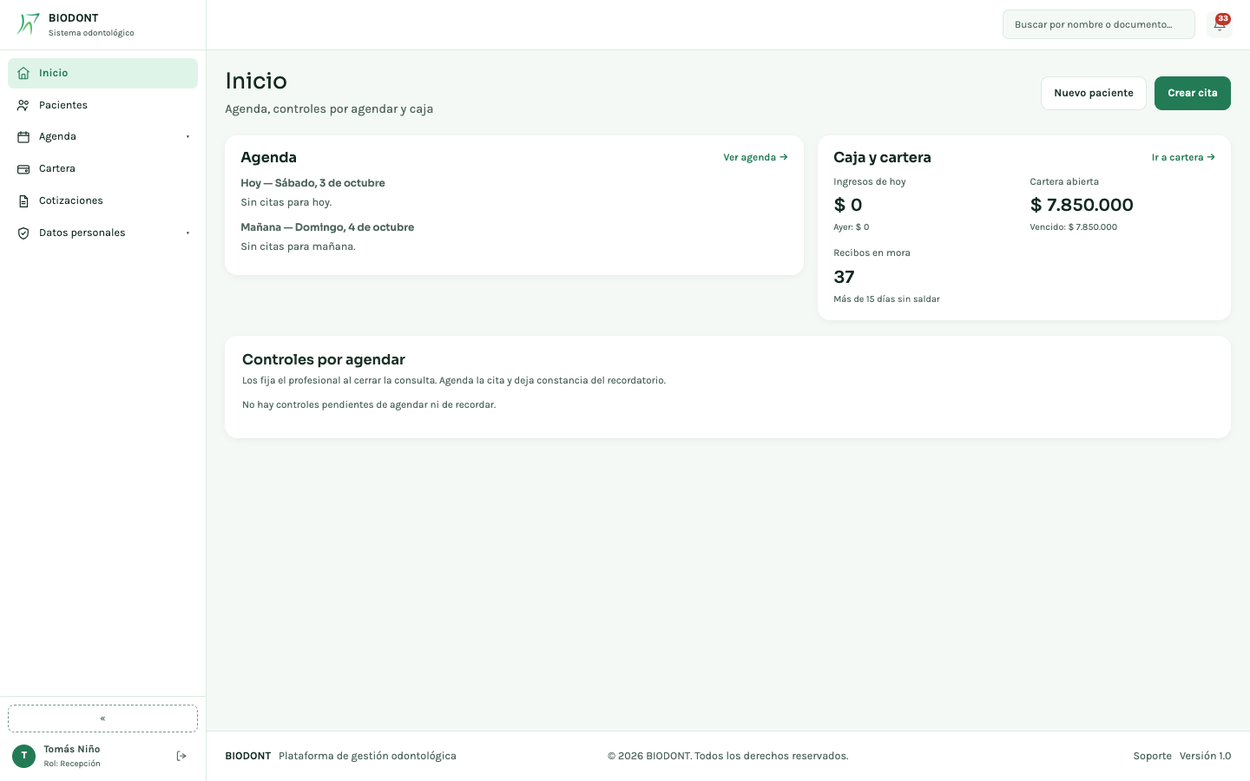
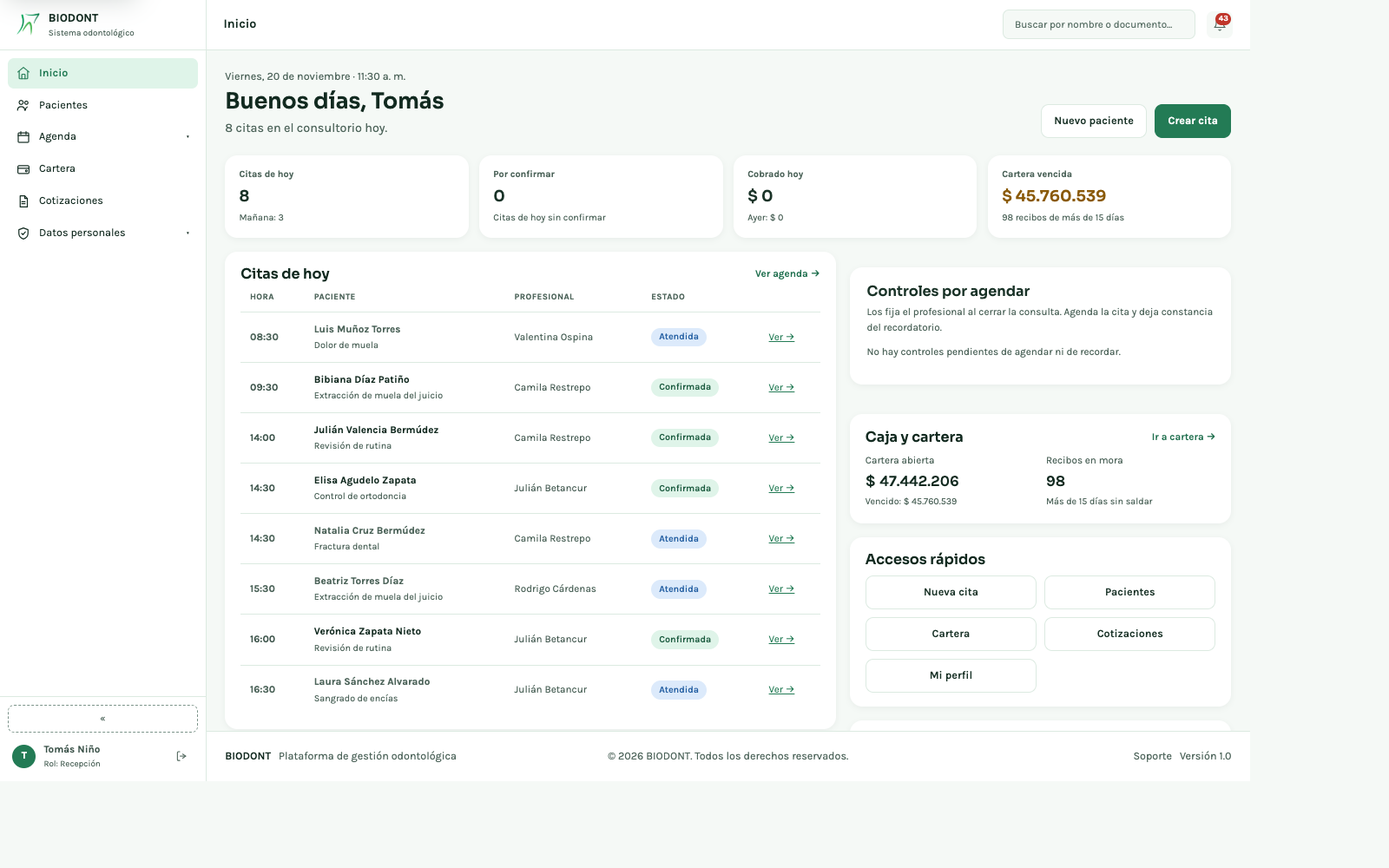
Manual: publicado desde el workspace (2026-11-20)

diff --git a/Manual-Biodont.html b/Manual-Biodont.html
@@ -156,6 +156,7 @@ table.constancia td{height:42px}
   <a href="#derechos">Atender una solicitud sobre datos personales</a>
   <a href="#incidentes">Registrar un incidente de seguridad</a>
   <a href="#respaldo">Respaldar la información</a>
+  <a href="#rips">El RIPS</a>
   <a href="#cierre">Si el consultorio cierra</a>
 
   <div class="grupo">Parte 2 · Referencia</div>
@@ -173,8 +174,8 @@ table.constancia td{height:42px}
 
 <h1>Manual de Biodont</h1>
 <p class="sub">Sistema de gestión para consultorio odontológico · Versión 1.0</p>
-<p class="sub" id="build-manual">Describe Biodont con el servidor <code>b1a9401</code> y las pantallas <code>705308c</code> (versión de la pantalla <code>main-DRW3YPMH</code>) · revisado el 2026-11-17.</p>
-<!-- Detalle técnico: servidor (backend) b1a9401, pantallas (front odontograma) 705308c, bundle main-DRW3YPMH; validado el 2026-11-17. Si la versión de su pantalla es otra, este manual puede no coincidir. -->
+<p class="sub" id="build-manual">Describe Biodont con el servidor <code>638f10a</code> y las pantallas <code>8c1311b</code> (versión de la pantalla <code>main-CBP3PXPW</code>) · revisado el 2026-11-20.</p>
+<!-- Detalle técnico: servidor (backend) 638f10a, pantallas (front odontograma) 8c1311b, bundle main-CBP3PXPW; validado el 2026-11-20. Si la versión de su pantalla es otra, este manual puede no coincidir. -->
 
 <div class="caja nota">
   <span class="et">Cómo está organizado</span>
@@ -342,6 +343,8 @@ y después el sistema lo lleva a Mi perfil para que vea cuántos le quedan.</p>
   la norma</b>: si debe reportarlo, cuándo y cómo, lo dice su asesor. Mientras no llegue ese concepto, en el servidor
   web <b>no se cargan las llaves del Ministerio ni se prueba la conexión</b>: la pantalla de llaves lo avisa y no
   ofrece hacerlo.</li>
+  <li><b>Decida si genera el RIPS.</b> El reporte de servicios al Ministerio también viene <b>apagado</b>. Se enciende y se configura en
+  <b class="btn">Administración</b> → <b>RIPS</b>: ver <a href="#rips">El RIPS</a>. Encendido, firmar una atención pide el diagnóstico principal.</li>
 </ol>
 
 <figure>
@@ -426,6 +429,14 @@ ven los demás.</p>
   <li>Pulse la opción que quiera. <b>Se aplica al instante</b> y se guarda sola: no hay botón
     de guardar.</li>
 </ol>
+<p>Si trabaja con el <b>teclado</b> (sin ratón, o con un lector de pantalla), la primera pulsación de <b>Tab</b> en cualquier pantalla
+muestra el enlace <b>«Saltar al contenido»</b>, que lleva directo al título de la pantalla sin recorrer el menú. Al cambiar de pantalla,
+el teclado queda también en su título.</p>
+<p>Con el teclado: en la <b>agenda</b> (vistas Mes y Semana) el calendario es una sola parada de <b>Tab</b>; las <b>flechas</b> cambian de día, <b>Inicio</b>
+y <b>Fin</b> van al primero y al último de la semana, <b>RePág</b> y <b>AvPág</b> cambian de mes (de semana, en la vista Semana), <b>Enter</b>
+(o <b>F2</b>) entra al día (sus citas y el «+») y <b>Escape</b> vuelve al calendario. En la <b>atención</b>, <b>Ctrl+S</b> (⌘S en Mac) guarda
+los cambios. En el <b>buscador de pacientes</b> de arriba, <b>Enter</b> abre la atención del paciente elegido (o lo primero que su rol pueda ver) y
+<b>Alt+Enter</b> muestra todas sus opciones.</p>
 
 <figure>
   <img src="capturas/24-ver-mejor.png" alt="Los tres ajustes de apariencia y tamaño en Mi perfil">
@@ -916,6 +927,15 @@ alteró.</p>
   falta y no firma.</p>
 </div>
 
+<div class="caja aviso" id="rips-firma">
+  <span class="et">Con el RIPS encendido, firmar pide el diagnóstico principal</span>
+  <p>Si el consultorio genera el RIPS (ver <a href="#rips">El RIPS</a>), la atención se firma con un <b>diagnóstico principal</b> que tenga
+  su código CIE-10 del catálogo, y sin diagnósticos relacionados repetidos ni iguales al principal. Si falta, al firmar sale
+  <b>«No se firmó: el RIPS está encendido en este consultorio»</b> con lo que falta (por ejemplo, «Diagnóstico principal con código CIE-10
+  del catálogo») y «Corrígelo en «Diagnóstico» y vuelve a firmar. Tu PIN no se usó.» Los procedimientos de la atención toman ese mismo
+  diagnóstico. Con el RIPS apagado, el diagnóstico sigue siendo opcional, y lo ya firmado antes no se cambia.</p>
+</div>
+
 <figure>
   <img src="capturas/23-firmar-pin.png" alt="Diálogo de firma con el resumen, la casilla de revisión y el PIN">
   <figcaption>El botón no se activa hasta marcar la casilla: al firmar se hace responsable del
@@ -937,12 +957,16 @@ alteró.</p>
     <tr><td><b class="btn">Agregar corrección</b></td><td>Añade una <b>adenda</b>, en la pestaña <b>Constancias y correcciones</b>. Lo firmado no se toca: la corrección se suma después, fechada y firmada, como manda la norma para un documento clínico.</td></tr>
     <tr><td><b class="btn">Imprimir (PDF)</b></td><td>Descarga el impreso de la atención con todo lo registrado, sus firmas y su huella. Solo lo obtiene quien puede ver todo su contenido: a un rol que no ve alguna parte (el auxiliar sin actuaciones habilitadas, por ejemplo) el botón aparece desactivado y, al pasar el cursor, dice por qué. Si hay cambios sin guardar, guarde antes: el impreso es lo guardado.</td></tr>
     <tr><td><b class="btn">Comprobar integridad</b></td><td>Verifica que el contenido firmado no ha sido alterado. Si algo cambió por fuera del sistema, lo dice.</td></tr>
-    <tr><td><b class="btn">Anular</b></td><td>Deja la atención sin efecto <b>dejando constancia</b> de quién la anuló y por qué. No la borra.</td></tr>
+    <tr><td><b class="btn">Anular</b></td><td>Deja la atención sin efecto <b>dejando constancia</b> de quién la anuló y por qué. No la borra. <b>Tampoco anula sus evoluciones</b>: antes de confirmar, la ventana dice cuántas siguen vigentes y en cuántos tratamientos, y al terminar lo repite.</td></tr>
   </tbody>
 </table>
 
 <p>Las atenciones anuladas no salen en la lista; para verlas, marque <b>Ver anuladas</b>. Una anulada se abre <b>solo para leer</b>, con su
 fecha y su motivo de anulación, y se puede imprimir como constancia (el impreso lo obtiene quien puede ver la atención entera).</p>
+
+<p>Si la atención anulada tenía evoluciones que siguen vigentes, aparecen en <b>Evoluciones que siguen vigentes</b>: siguen contando en sus
+tratamientos. Si eran de otro paciente, anúlelas ahí con <b class="btn">Anular</b> y un motivo; lo puede hacer quien registró la evolución o el
+responsable clínico (el odontólogo que Administración marcó como tal), aunque la atención estuviera firmada. La evolución no se borra: queda con su motivo y deja de contar en su tratamiento.</p>
 
 <div class="caja alto">
   <span class="et">Un error después de firmar se corrige con una adenda</span>
@@ -1881,8 +1905,11 @@ cierre, solo Administración y Odontología corrigen la caja, anulando un cobro.
   <li><b>Con más efectivo del que entró:</b> si lo que salió en efectivo en el día (egresos y devoluciones) supera lo que entró en efectivo, el sistema no habla de «sobrante»: dice
   <i>«Salió más efectivo del que entró»</i> con la cifra, y la diferencia con lo contado como «Diferencia con lo contado».</li>
   <li><b>Corregido después del cierre:</b> si tras cerrar se anula algo, la caja muestra el aviso <i>«Corregido después del cierre»</i> con lo que
-  cambió —el efectivo esperado y, <b>en cualquier medio de pago</b> (Nequi, tarjeta, transferencia…), el total que había al cerrar y el de ahora—. El
-  cierre grabado no cambia.</li>
+  cambió —el efectivo esperado y, <b>en cualquier medio de pago</b> (Nequi, tarjeta, transferencia…), el total que había al cerrar y el de ahora—. Lo
+  mismo con los <b>egresos</b>: se puede registrar un egreso con la fecha de un día ya cerrado, y si después de cerrar se registra, se anula o se
+  cambia uno, el aviso lo dice como <i>«Egresos por Nequi: $40.000 → $65.000»</i> (o <i>«Egresos en efectivo: …»</i>). El cierre grabado no cambia.
+  Al registrar o editar un egreso con la fecha de un día cerrado, la ventana lo avisa antes de guardar: <i>«La caja de ese día ya está cerrada: el
+  egreso se guarda igual y la caja lo mostrará como corregido después del cierre»</i>.</li>
   <li><b>Días sin cerrar:</b> en Cartera aparece el aviso <i>«Hay N días con movimientos sin cerrar»</i> con el más antiguo, en forma de enlace que abre
   la caja de ese día. Cuenta los días anteriores a hoy que tuvieron cobros, devoluciones o egresos y no se cerraron, <b>desde el día siguiente al primer
   cierre de caja</b> del consultorio: si nunca se ha cerrado una caja, no avisa. Solo avisa: no impide nada ni sale en la campana.</li>
@@ -2291,7 +2318,9 @@ pierde la historia clínica de todos los pacientes.</p>
 <p>Para <b>restaurar</b>, en la misma pantalla: <b class="btn">Seleccionar backup (.zip, .cifrado o .db)</b>. Si el archivo es un
 backup cifrado (<b>.cifrado</b>), aparece <b>Frase del backup cifrado</b>: escriba la frase con la que se descargó. Después marque
 <b>Entiendo que se reemplazan todos los datos actuales por los del respaldo</b> y pulse
-<b class="btn">Restaurar base de datos</b>. Todo lo que se registró después de ese respaldo se pierde.</p>
+<b class="btn">Restaurar base de datos</b>. Todo lo que se registró después de ese respaldo se pierde, <b>también las solicitudes de derechos sobre datos personales</b>
+  que llegaron después: tras restaurar, revise el canal por donde llegan (correo, teléfono, mostrador o la página pública) y vuelva a radicarlas, porque
+  su plazo legal sigue corriendo.</p>
 <p>Durante una <b>restauración</b> el sistema entero deja de responder a propósito, y vuelve
 cuando termina. No la haga con pacientes esperando. Al terminar, la pantalla se recarga sola a los tres segundos y,
 ya recargada, deja un aviso verde con lo que se restauró.</p>
@@ -2299,6 +2328,154 @@ ya recargada, deja un aviso verde con lo que se restauró.</p>
 no se restaura nada y la información actual queda como estaba. Un respaldo de una versión anterior se
 pone al día solo, y el mensaje lo dice. La información que había antes de restaurar queda guardada en
 el servidor, por si hiciera falta recuperarla.</p>
+
+<hr>
+
+<h2 id="rips">El RIPS (Administración → RIPS)</h2>
+<p class="quien"><span class="rol r-adm">Administración</span> — nadie más</p>
+
+<p>El <b>RIPS</b> (Registro Individual de Prestación de Servicios de Salud) es el reporte que el Ministerio de Salud pide de
+los servicios que presta el consultorio: cada consulta y cada procedimiento, con el paciente, la fecha, el diagnóstico y el
+valor. Biodont <b>prepara</b> ese reporte con lo que ya está registrado, lo <b>comprueba</b> con las reglas que se pueden revisar
+sin el Ministerio y <b>genera el archivo</b>. <b>No lo envía</b>: el archivo se carga en la aplicación de validación del Ministerio, y lo
+que responda el Ministerio se anota después en Biodont.</p>
+
+<div class="caja alto">
+  <span class="et">Un archivo listo en Biodont no es un RIPS aprobado</span>
+  <p>Lo aprueba el Ministerio cuando devuelve el <b>CUV</b> (código único de validación). Que Biodont diga «Listo localmente» solo
+  significa que el archivo cumple las reglas que Biodont puede comprobar por su cuenta: no dice que el Ministerio lo vaya a aceptar,
+  ni que la factura esté bien emitida, ni que el pagador lo reciba.</p>
+</div>
+
+<h3 id="rips-configurar">Encenderlo y configurarlo</h3>
+<p>El RIPS <b>viene apagado</b>. Apagado, nada cambia en el consultorio y no se puede preparar ningún reporte.</p>
+<ol class="pasos">
+  <li>Entre a <b class="btn">Administración</b> → <b>RIPS</b>, al bloque <b>Configuración del consultorio</b>.</li>
+  <li>En <b>Generar el RIPS</b> elija <b>Sí</b>.</li>
+  <li>Elija la <b>Modalidad</b>, una sola por consultorio:
+    <ul>
+      <li><b>Sin factura electrónica</b>: para quien atiende particulares y no está obligado a facturar electrónicamente. Se reporta lo
+      que pagó el paciente, ya con el descuento.</li>
+      <li><b>Con factura electrónica</b>: para quien factura electrónicamente o le factura a una EPS u otro pagador; el reporte va junto
+      con la factura. <b>La unión con la factura todavía no está construida en Biodont.</b></li>
+    </ul>
+    La decide quien administra el consultorio, según su situación ante la facturación electrónica. Las dos no se combinan, y sin elegir
+    una no se genera ningún reporte.</li>
+  <li>En <b>Servicio habilitado (REPS)</b> elija el servicio con el que el consultorio está habilitado (por ejemplo, <b>334 · ODONTOLOGIA
+  GENERAL</b>). Los demás campos traen el valor que sirve a casi todos los consultorios (consulta externa, en el consultorio, demanda
+  espontánea, particular, sin cobros adicionales); cada uno explica debajo para qué es.</li>
+  <li>Pulse <b class="btn">Guardar</b>.</li>
+</ol>
+<p>El <b>NIT</b> y el <b>código de habilitación</b> del consultorio no se escriben aquí: se registran una sola vez en
+<b>Administración · RDA</b>, y el RIPS los toma de allí. Si falta algo del consultorio, la pantalla lo enumera con el sitio donde se
+corrige.</p>
+<figure>
+  <img src="capturas/76-rips-configuracion.png" alt="Configuración del RIPS: Generar el RIPS en Sí, la modalidad sin factura electrónica elegida y los demás campos con su explicación">
+  <figcaption>Administración → <b>RIPS</b>, la configuración. Encenderlo cambia también la firma de la atención (ver
+  <a href="#rips-firma">abajo</a>).</figcaption>
+</figure>
+
+<h3 id="rips-preparar">Preparar el reporte de un periodo</h3>
+<p>Arriba del bloque hay un <b>recordatorio</b>: dice si el mes anterior ya tiene reporte. El plazo que menciona (los cinco primeros días
+del mes) es <b>solo un recordatorio</b>: Biodont no lo controla, no bloquea nada al pasarse y no garantiza que el consultorio cumpla.</p>
+<ol class="pasos">
+  <li>Elija el periodo en <b>Desde</b> y <b>Hasta</b> (de un día a un mes), o pulse <b class="btn">Mes anterior</b>.</li>
+  <li>Pulse <b class="btn">Preparar</b>. Preparar <b>no guarda nada</b>: muestra qué iría en el reporte y qué falta.</li>
+</ol>
+<p>La preparación se lee en cuatro partes:</p>
+<ul>
+  <li><b>Lo que va en el reporte</b>: las consultas de las atenciones firmadas o cerradas del periodo y los procedimientos registrados en
+  sus evoluciones, agrupados por paciente, cada uno con su valor y de dónde sale.</li>
+  <li><b>Falta información</b>: lo que el Ministerio exige y no está registrado (por ejemplo, el sexo o el tipo de documento en la ficha
+  de un paciente). Cada faltante dice <b>dónde se corrige</b>. Mientras falte algo, el reporte no se genera: <b>nada se rellena por
+  defecto</b>.</li>
+  <li><b>Queda fuera del reporte</b>: lo que no se reporta, <b>cada uno con su motivo</b> (una atención sin firmar, una atención firmada sin
+  diagnóstico principal, una evolución sin procedimiento…). Lo anterior que no cumple no se reescribe: queda fuera.</li>
+  <li><b>Avisos</b>: datos que Biodont informa por su cuenta porque no los registra (por ejemplo, el país de origen se toma de la
+  nacionalidad). No impiden generar.</li>
+</ul>
+<figure>
+  <img src="capturas/77-rips-preparar.png" alt="Preparación de un periodo con un faltante en la ficha de un paciente, siete servicios sin valor y la tabla de lo que va en el reporte">
+  <figcaption>Un periodo preparado: arriba, lo que falta y dónde se corrige; abajo, cada servicio con su valor o con el motivo por el
+  que no hay valor sugerido.</figcaption>
+</figure>
+<figure>
+  <img src="capturas/78-rips-fuera-y-avisos.png" alt="Lista de lo que queda fuera del reporte con su motivo, los avisos y el botón Generar el reporte desactivado">
+  <figcaption>Lo que queda fuera, con su motivo, y los avisos. Mientras falte algo, <b>Generar el reporte</b> no se activa y la
+  pantalla dice por qué.</figcaption>
+</figure>
+
+<h3 id="rips-valor">El valor de cada servicio</h3>
+<p>Biodont <b>sugiere</b> el valor solo cuando sale de lo pagado sin ninguna duda (por ejemplo, la consulta de una cita pagada del todo).
+En cualquier otro caso el servicio queda <b>Por asignar</b>, con el motivo («La cita tiene saldo pendiente…», «La evolución no está
+ligada a un tratamiento»…), porque Biodont no reparte ni supone pagos.</p>
+<ol class="pasos">
+  <li>En la fila del servicio pulse <b class="btn">Asignar valor</b> (o <b class="btn">Cambiar valor</b>, si ya tenía uno).</li>
+  <li>Escriba el <b>Valor en pesos</b>: lo que pagó el paciente por ese servicio, en pesos enteros, sin puntos.</li>
+  <li>Escriba el <b>Motivo</b>. Queda guardado con su nombre y la fecha.</li>
+  <li>Pulse <b class="btn">Guardar valor</b>.</li>
+</ol>
+<p>Un valor de <b>0</b> no entra por descuido: al escribirlo aparece la casilla <b>Confirmo que el valor de este servicio es 0.</b>, y sin
+marcarla no se guarda.</p>
+<figure>
+  <img src="capturas/79-rips-asignar-valor.png" alt="Ventana Asignar valor con el motivo por el que no hay valor sugerido, el valor 0, la casilla de confirmación y el motivo">
+  <figcaption>La ventana del valor. Arriba dice por qué no hay valor sugerido; con 0 pide confirmarlo.</figcaption>
+</figure>
+
+<h3 id="rips-generar">Generar el reporte</h3>
+<p>Cuando no queda nada por asignar ni ningún faltante, pulse <b class="btn">Generar el reporte</b>. El reporte queda guardado con su
+<b>huella</b> y el <b>sello</b> de la instalación, que permiten comprobar después que el archivo no cambió. Un reporte generado <b>no se
+edita</b>: si hay que corregirlo, se reemplaza (ver abajo). Una misma atención no puede estar en dos reportes vigentes.</p>
+
+<h3 id="rips-estados">Los reportes y sus estados</h3>
+<p>En <b>Reportes generados</b> está la lista, con el estado de cada uno. Cada estado dice qué afirma y quién lo afirma:</p>
+<table>
+  <thead><tr><th>Estado</th><th>Qué quiere decir</th><th>Quién lo da</th></tr></thead>
+  <tbody>
+    <tr><td><b>Listo localmente</b></td><td>El archivo cumple las reglas que Biodont comprueba sin el Ministerio. Todavía no se ha enviado.</td><td>Biodont</td></tr>
+    <tr><td><b>Transmitido</b></td><td>Alguien registró que lo envió al Ministerio o lo cargó en su aplicación. Falta anotar lo que respondió.</td><td>El consultorio, al registrarlo</td></tr>
+    <tr><td><b>Validado con CUV</b></td><td>Registrado como validado por el Ministerio: alguien escribió en Biodont el CUV que devolvió. Biodont no habla con el Ministerio.</td><td>El consultorio, al registrar lo que respondió el Ministerio</td></tr>
+    <tr><td><b>Rechazado</b></td><td>El Ministerio lo rechazó, con los motivos que devolvió. Se corrige generando un reemplazo.</td><td>El Ministerio</td></tr>
+    <tr><td><b>Reemplazado</b></td><td>Otro reporte del mismo periodo lo corrigió. Se conserva como constancia y ya no cuenta.</td><td>Biodont</td></tr>
+  </tbody>
+</table>
+<p>Hay un sexto paso que <b>no</b> está en Biodont: que el pagador (por ejemplo, una EPS) reciba el reporte con la factura. Lo da el
+pagador, y esta pantalla no lo registra.</p>
+<figure>
+  <img src="capturas/80-rips-reportes.png" alt="Lista de reportes generados con la explicación de cada estado y cinco reportes: transmitido, rechazado, validado con CUV, reemplazado y listo localmente">
+  <figcaption>La lista de reportes, con lo que significa cada estado encima.</figcaption>
+</figure>
+
+<h3 id="rips-ministerio">Del archivo al Ministerio, y de vuelta</h3>
+<ol class="pasos">
+  <li>En la fila del reporte pulse <b class="btn">Ver</b> y luego <b class="btn">Descargar el archivo JSON</b>.</li>
+  <li>Cargue ese archivo en la aplicación de validación del Ministerio de Salud, con el usuario del consultorio. Esa parte se hace fuera de
+  Biodont.</li>
+  <li>De vuelta en el reporte, pulse <b class="btn">Registrar transmisión</b>. La pantalla pregunta si ya lo envió: la transmisión se
+  registra <b>una sola vez</b>. Confirme con <b class="btn">Sí, registrar la transmisión</b>.</li>
+  <li>Cuando el Ministerio responda, pulse <b class="btn">Registrar el resultado</b>, elija <b>Validado, con CUV</b> o <b>Rechazado, con
+  motivos</b>, escriba el <b>CUV</b> si fue validado, pegue en <b>Respuesta del Ministerio</b> el contenido del archivo .txt o lo que
+  devolvió su aplicación (se guarda tal cual) y pulse <b class="btn">Registrar</b>.</li>
+</ol>
+<p>El detalle de cada reporte muestra el periodo, los servicios, cuándo se generó, se transmitió y se registró el resultado, el CUV, la
+<b>huella del archivo</b> y si el archivo guardado sigue <b>íntegro</b>. Si dijera «Alterado», no lo envíe y avise al proveedor. Si una
+atención del reporte se corrigió después con una adenda, el detalle lo avisa para que revise si hay que reemplazarlo.</p>
+<figure>
+  <img src="capturas/81-rips-detalle.png" alt="Detalle de un reporte validado con su CUV, la huella del archivo, la integridad y el botón para descargar el archivo">
+  <figcaption>Un reporte validado: el CUV que devolvió el Ministerio, la huella y la integridad. Un reporte validado ya no ofrece
+  <b>Reemplazar</b>.</figcaption>
+</figure>
+
+<h3 id="rips-reemplazar">Corregir un reporte: reemplazarlo</h3>
+<p>Un reporte que todavía no está validado (listo, transmitido o rechazado) se corrige reemplazándolo: corrija primero lo que haga falta
+(la ficha, la atención, un valor), abra el reporte, pulse <b class="btn">Reemplazar</b>, escriba el <b>Motivo del reemplazo</b> y pulse
+<b class="btn">Generar el reemplazo</b>. Se genera un reporte nuevo del mismo periodo con los datos de ahora; el anterior queda como
+«Reemplazado», se conserva y ya no cuenta. Los valores asignados a mano se mantienen.</p>
+<div class="caja aviso">
+  <span class="et">Un reporte validado no se reemplaza</span>
+  <p>Un RIPS que ya tiene CUV se corrige ante el Ministerio con una <b>nota de ajuste</b>, no con otro reporte. Las notas de ajuste
+  <b>todavía no están en Biodont</b>.</p>
+</div>
 
 <hr>
 
@@ -2425,27 +2602,40 @@ sistema: el de una atención y el del dinero.</p>
 <h3 id="v-inicio">Inicio</h3>
 <p class="quien">Entran: <span class="rol r-odo">Odontólogo</span> <span class="rol r-aux">Auxiliar</span> <span class="rol r-rec">Recepción</span> <span class="rol r-adm">Administración</span></p>
 <figure>
-  <img src="capturas/02-escritorio.png" alt="Pantalla de inicio con indicadores y agenda">
-  <figcaption>Lo primero que se ve al entrar (aquí, con perfil de Recepción).</figcaption>
+  <img src="capturas/02-escritorio.png" alt="Inicio de Recepción: saludo, cifras del día, tabla de citas de hoy, controles por agendar y caja y cartera">
+  <figcaption>El Inicio de Recepción: las cifras del día arriba y la tabla de citas de hoy.</figcaption>
 </figure>
-<p>Lo que muestra depende del rol: cada uno ve su jornada.</p>
+<p>Arriba, el saludo con el resumen del día («Tienes 3 citas hoy. La siguiente es a las 15:00.»). Debajo, una fila de
+<b>cifras del día</b> que se pueden pulsar para ir a su lista. Lo demás depende del rol: cada uno ve su jornada, y lo que su
+rol no recibe no aparece (no se muestra como cero).</p>
 <table>
   <thead><tr><th>Bloque</th><th>Qué muestra</th><th>Quién lo ve</th></tr></thead>
   <tbody>
-    <tr><td><b>Agenda</b></td><td>Las citas de hoy y de mañana, con su estado. El odontólogo puede
-    filtrar <b>Solo mis citas</b>.</td><td>Todos</td></tr>
-    <tr><td><b>Pendientes de firma</b></td><td>Documentos enviados al paciente que todavía no ha
-    firmado, y si el enlace venció.</td><td>Odontólogo</td></tr>
-    <tr><td><b>Atenciones sin cerrar</b></td><td>Sus atenciones abiertas, con <b>Continuar</b>.</td><td>Odontólogo</td></tr>
-    <tr><td><b>Caja y cartera</b> (en Administración, <b>Desempeño</b>)</td><td>Ingresos de hoy
-    (y de ayer), cartera abierta y vencida, recibos en mora; Administración ve además los
-    tratamientos activos.</td><td>Recepción, Administración</td></tr>
+    <tr><td><b>Cifras del día</b></td><td>Odontólogo: sus citas de hoy (y cuántas por confirmar), atenciones sin cerrar,
+    consentimientos pendientes y citas de mañana. Recepción y Administración: citas de hoy, por confirmar, cobrado hoy (y ayer)
+    y cartera vencida (Administración, también los tratamientos activos). Auxiliar: citas de hoy y de mañana del consultorio. Las citas canceladas no se cuentan.</td><td>Todos</td></tr>
+    <tr><td><b>Siguiente paciente</b></td><td>La próxima cita de hoy: hora y cuánto falta, paciente, motivo y sus
+    <b>alergias</b>, con <b class="btn">Abrir atención</b>, <b class="btn">Odontograma</b> y <b class="btn">Ficha</b>. Si ya
+    no quedan citas, lo dice; el saludo de arriba avisa además de las anteriores que siguen sin atender.</td><td>Odontólogo</td></tr>
+    <tr><td><b>Agenda de hoy</b></td><td>Odontólogo y Auxiliar: una línea de tiempo con la hora actual marcada y los
+    <b>huecos libres</b> de 30 minutos o más («Libre 11:35 – 15:00 · Agendar aquí»); el odontólogo puede filtrar
+    <b>Solo mis citas</b>. Recepción y Administración: una tabla con hora, paciente, profesional y estado.</td><td>Todos</td></tr>
+    <tr><td><b>Lo que espera tu firma</b></td><td>Los documentos enviados al paciente que todavía no ha firmado (y si el
+    enlace venció) y sus atenciones sin cerrar, con la acción de cada una: <b>Abrir</b>, <b>Firmar</b>, <b>Cerrar</b> o
+    <b>Continuar</b>.</td><td>Odontólogo</td></tr>
+    <tr><td><b>Caja y cartera</b></td><td>Cartera abierta y vencida, recibos en mora y saldo a favor.</td><td>Recepción, Administración</td></tr>
     <tr><td><b>Controles por agendar</b></td><td>Los próximos controles que fijó el odontólogo y
     todavía no tienen cita ni recordatorio. Desde aquí se <b class="btn">Agendar</b> la cita, se
     envía el recordatorio y se marca como enviado. Muestra el nombre y el teléfono, <b>nunca</b>
     el contenido clínico.</td><td>Auxiliar, Recepción, Administración</td></tr>
+    <tr><td><b>Accesos rápidos</b> y <b>Mañana</b></td><td>Atajos a las pantallas que el rol puede abrir, y las citas de
+    mañana (Recepción y Administración ven la lista; el odontólogo, cuántas y a qué hora es la primera).</td><td>Todos</td></tr>
   </tbody>
 </table>
+<figure>
+  <img src="capturas/82-inicio-odontologa.png" alt="Inicio de una odontóloga: siguiente paciente con su alergia, agenda en línea de tiempo con huecos libres y lo que espera su firma">
+  <figcaption>El Inicio de la odontóloga: el siguiente paciente con su alergia y la agenda de hoy con los huecos libres.</figcaption>
+</figure>
 
 <h3 id="v-pacientes">Pacientes</h3>
 <p class="quien">Entran: <span class="rol r-odo">Odontólogo</span> <span class="rol r-aux">Auxiliar</span> <span class="rol r-rec">Recepción</span> <span class="rol r-adm">Administración</span></p>
@@ -2588,6 +2778,7 @@ incidentes) no deja asiento aquí.</p>
     <tr><td><b>Documentos legales</b></td><td>El nombre del consultorio, el texto de cada documento que firma el paciente o publica el consultorio, su <b>aprobación jurídica</b> y el encabezado de los documentos.</td></tr>
     <tr><td><b>Cierre del consultorio</b></td><td>Si el consultorio cierra: los avisos publicados, el plazo para que cada paciente reclame su historia y el cierre definitivo, que deja el sistema en solo lectura. Ver <a href="#cierre">Si el consultorio cierra</a>.</td></tr>
     <tr><td><b>RDA</b></td><td>Activar o no la generación del Resumen Digital de Atención, los datos del prestador y, con ella activa, la lista de atenciones firmadas para descargar su RDA.</td></tr>
+    <tr><td><b>RIPS</b></td><td>Encender el reporte de servicios al Ministerio, elegir la modalidad, preparar y generar el reporte de cada periodo y anotar lo que respondió el Ministerio. Ver <a href="#rips">El RIPS</a>.</td></tr>
   </tbody>
 </table>
 <h4>El historial de precios</h4>
@@ -2857,6 +3048,7 @@ abre en su celular o en la tablet que se le pasa, lee el documento y firma con e
     <tr><td>Tarifario</td><td>Solo leer</td><td>Solo leer</td><td>Solo leer</td><td><b>Crear, poner precios y ver su historial</b></td></tr>
     <tr><td>Usuarios, respaldo, textos</td><td>No</td><td>No</td><td>No</td><td>Sí</td></tr>
     <tr><td>RDA: activarlo y descargarlo</td><td>No</td><td>No</td><td>No</td><td>Sí</td></tr>
+    <tr><td>RIPS: configurarlo, generar el reporte y registrar el resultado</td><td>No</td><td>No</td><td>No</td><td>Sí</td></tr>
     <tr><td>Alertas clínicas del paciente</td><td>Sí</td><td>Sí</td><td>No</td><td>No</td></tr>
     <tr><td>Documentos que firma el paciente</td><td>Sí</td><td>Sí</td><td>Sí</td><td>Sí</td></tr>
     <tr><td>· Emitir la autorización de datos</td><td>Sí</td><td>Sí</td><td>Sí</td><td>No</td></tr>
@@ -2955,6 +3147,17 @@ abre en su celular o en la tablet que se le pasa, lee el documento y firma con e
   </tbody>
 </table>
 
+<h3>Reporte del RIPS</h3>
+<table>
+  <tbody>
+    <tr><td><b>Listo localmente</b></td><td>Generado y comprobado por Biodont; todavía no se ha enviado. No es un RIPS aprobado.</td></tr>
+    <tr><td><b>Transmitido</b></td><td>Registrado como enviado o cargado en la aplicación del Ministerio; falta anotar la respuesta.</td></tr>
+    <tr><td><b>Validado con CUV</b></td><td>Registrado como validado por el Ministerio, con el CUV que alguien anotó. Se corrige solo con nota de ajuste, que todavía no está en Biodont.</td></tr>
+    <tr><td><b>Rechazado</b></td><td>El Ministerio lo rechazó; se corrige con un reemplazo.</td></tr>
+    <tr><td><b>Reemplazado</b></td><td>Otro reporte del mismo periodo lo corrigió. Se conserva y ya no cuenta.</td></tr>
+  </tbody>
+</table>
+
 <h2 id="ref-problemas">Si algo no funciona</h2>
 
 <div class="tabla-scroll">
@@ -3039,6 +3242,11 @@ abre en su celular o en la tablet que se le pasa, lee el documento y firma con e
       <td>Complételos en <b>Datos para el RDA</b>, bajo el diagnóstico.</td>
     </tr>
     <tr>
+      <td>No me deja firmar: «el RIPS está encendido en este consultorio»</td>
+      <td>El consultorio genera el RIPS y la atención no tiene un diagnóstico principal con su código CIE-10 del catálogo, o repite un diagnóstico relacionado.</td>
+      <td>Corríjalo en <b>Diagnóstico</b> y vuelva a firmar. El PIN no se gastó.</td>
+    </tr>
+    <tr>
       <td>No aparece el botón de WhatsApp</td>
       <td>El paciente no tiene autorización de datos vigente, o no autorizó el contacto administrativo.</td>
       <td>Recuérdele por llamada o en persona, y recoja la autorización. Vea <a href="#agendar">Recordar por WhatsApp</a>.</td>
@@ -3061,6 +3269,7 @@ abre en su celular o en la tablet que se le pasa, lee el documento y firma con e
     <tr><td><b>Borrado lógico</b></td><td>Anular dejando constancia, en vez de borrar. Lo clínico nunca se borra de verdad.</td></tr>
     <tr><td><b>CIE-10</b></td><td>Código internacional de diagnósticos.</td></tr>
     <tr><td><b>CIE-11</b></td><td>La versión nueva de la clasificación de enfermedades de la OMS. Se muestra junto al CIE-10 cuando hay un código verificado.</td></tr>
+    <tr><td><b>CUV</b></td><td>Código único de validación: el que devuelve el Ministerio cuando aprueba un RIPS. Se anota en Biodont al registrar el resultado.</td></tr>
     <tr><td><b>CUPS</b></td><td>Catálogo oficial colombiano de procedimientos en salud. Es la base del tarifario.</td></tr>
     <tr><td><b>Cotización</b></td><td>Precio por escrito para quien todavía no es paciente. No crea historia clínica.</td></tr>
     <tr><td><b>Etnia y discapacidad</b></td><td>Datos sensibles de la ficha. Voluntarios; «Prefiere no responder» es una respuesta aparte.</td></tr>
@@ -3073,6 +3282,7 @@ abre en su celular o en la tablet que se le pasa, lee el documento y firma con e
     <tr><td><b>PRA</b></td><td>Valoración del riesgo periodontal de Lang y Tonetti (2003), para pacientes en terapia de soporte.</td></tr>
     <tr><td><b>Presupuesto</b></td><td>Lo propuesto a un paciente registrado, con precio por procedimiento.</td></tr>
     <tr><td><b>RDA</b></td><td>Resumen Digital de Atención (Res. 1888/2025): el documento de cada atención firmada según la guía del Ministerio. Biodont lo genera, no lo envía; generarlo no demuestra cumplimiento (eso lo dice el asesor).</td></tr>
+    <tr><td><b>RIPS</b></td><td>Registro Individual de Prestación de Servicios de Salud: el reporte de las consultas y procedimientos del consultorio que pide el Ministerio de Salud. Biodont lo prepara, lo comprueba y genera el archivo; no lo envía. Ver <a href="#rips">El RIPS</a>.</td></tr>
     <tr><td><b>Responsable clínico</b></td><td>Odontólogo designado que responde por la historia clínica y consulta el registro de accesos.</td></tr>
     <tr><td><b>Retención</b></td><td>Los 15 años que hay que conservar la historia desde la última atención.</td></tr>
   </tbody>
